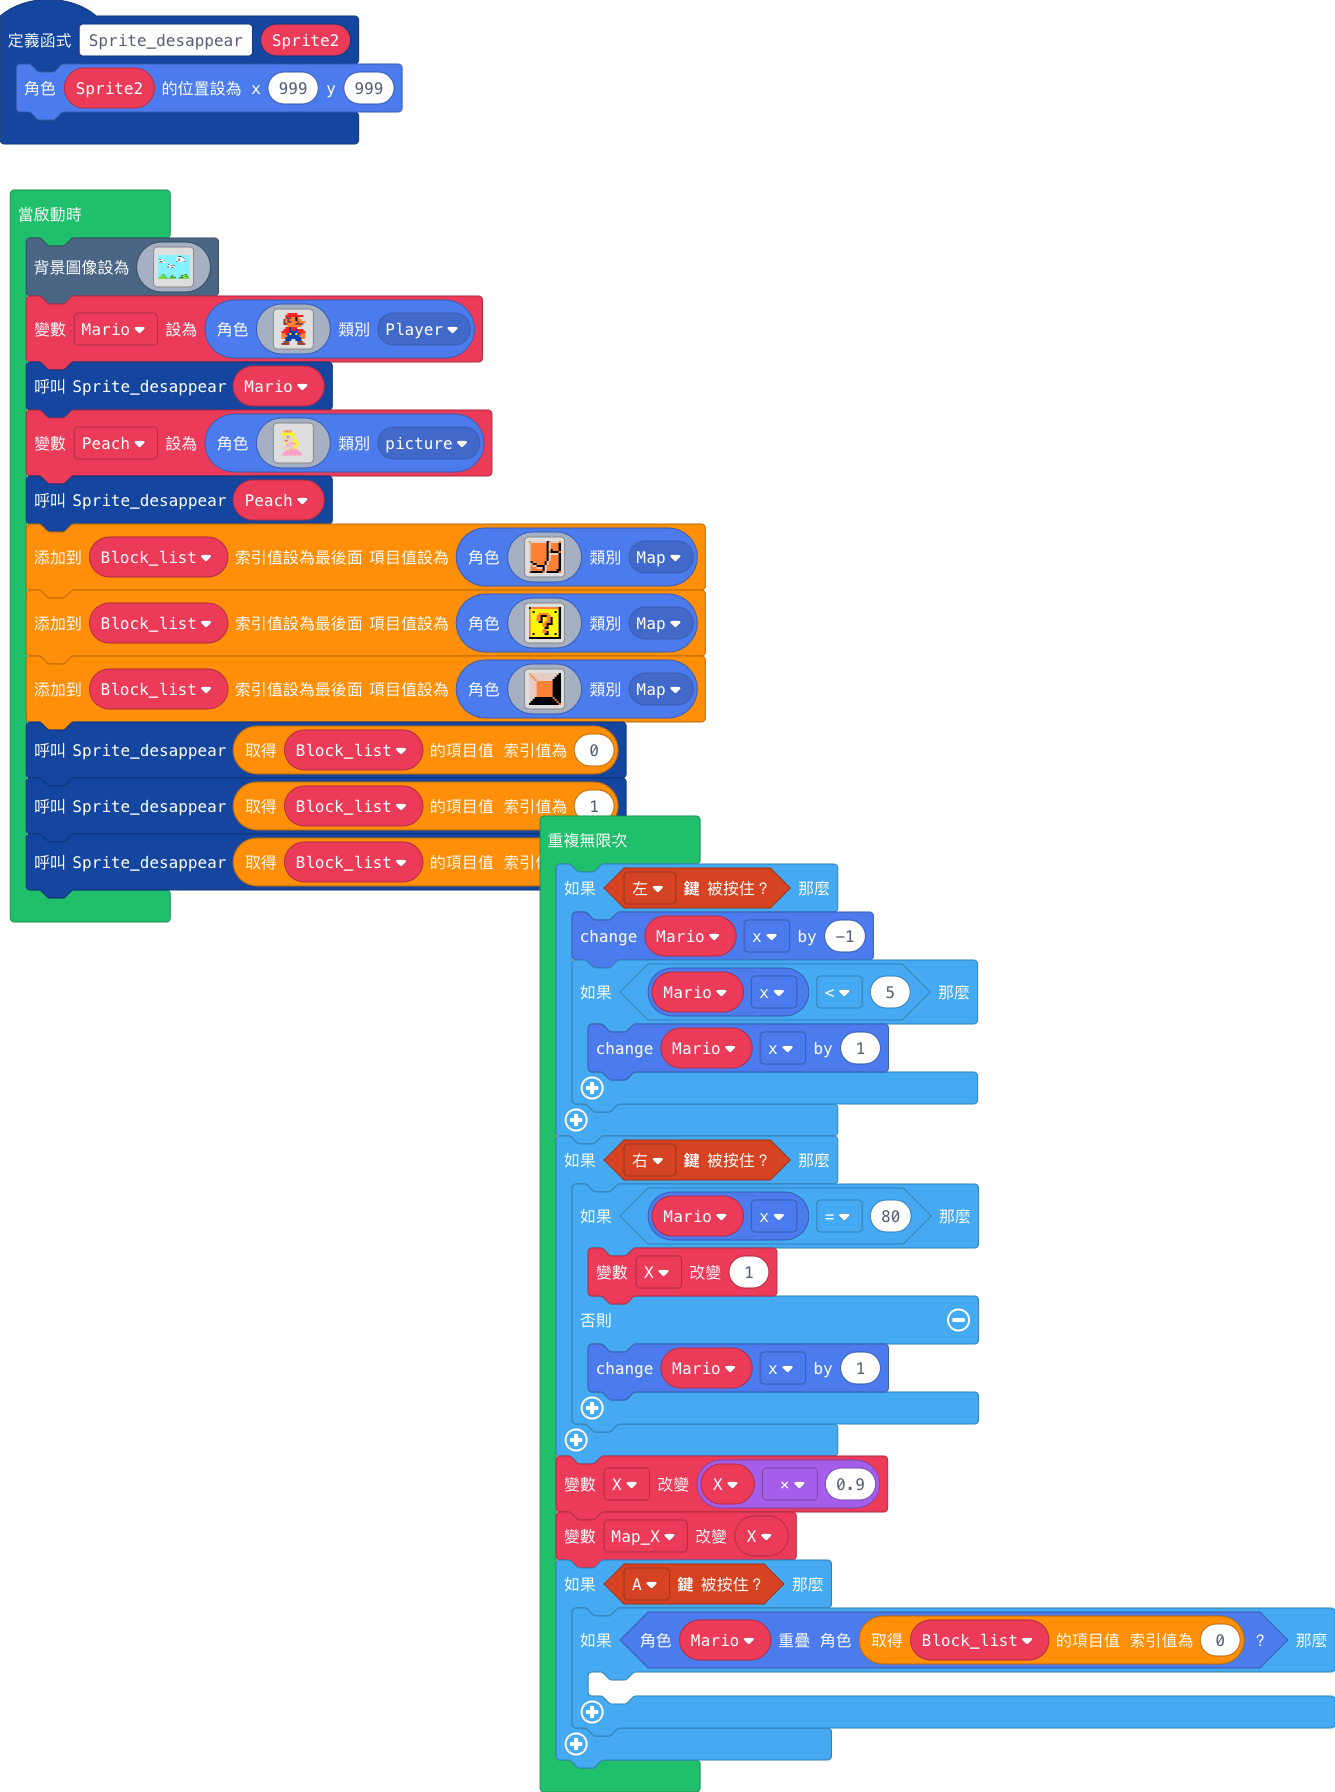
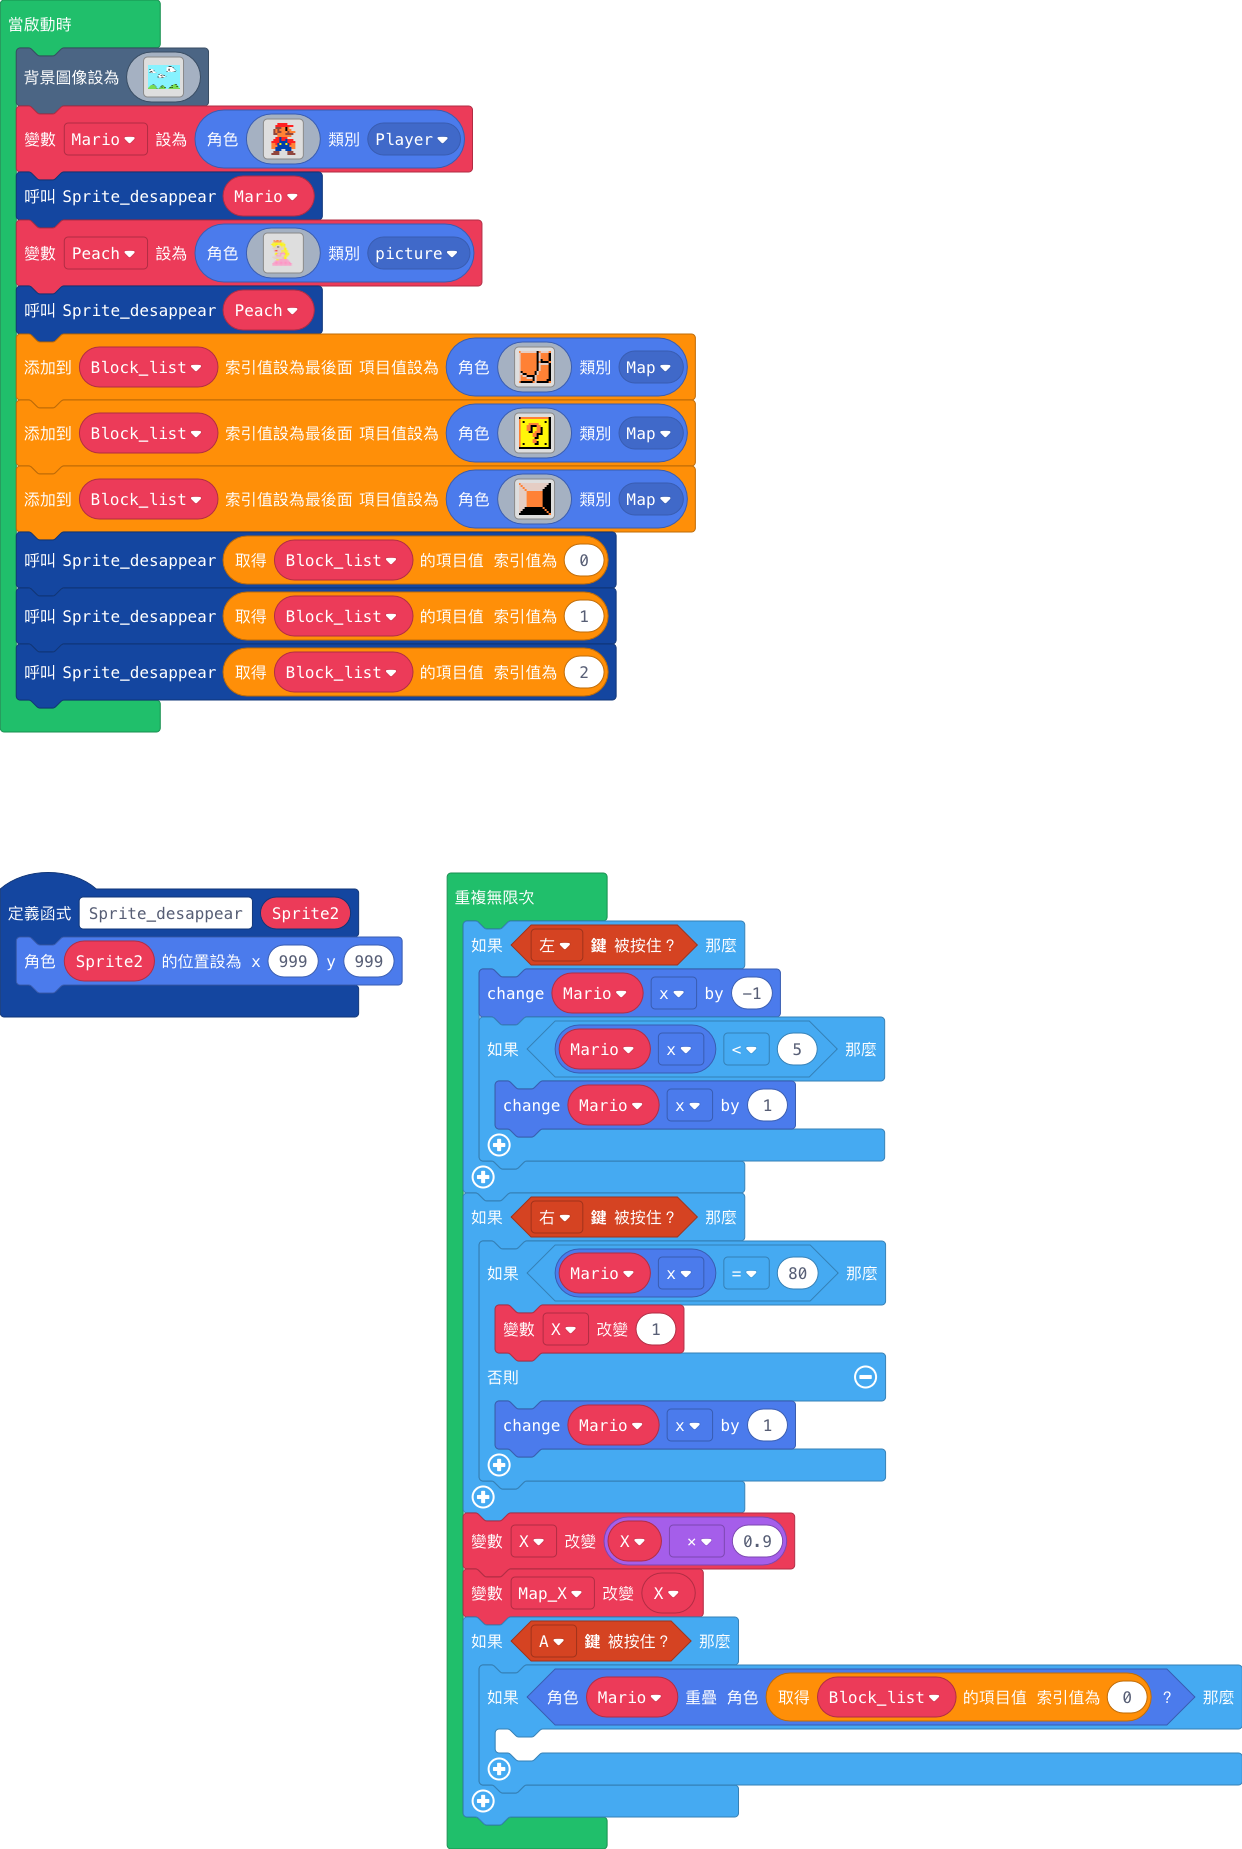
Update main.blocks, main.ts

diff --git a/main.ts b/main.ts
@@ -229,8 +229,6 @@ f f f f f f f f f f f f f f f 4
 Sprite_desappear(Block_list[0])
 Sprite_desappear(Block_list[1])
 Sprite_desappear(Block_list[2])
-game.showLongText("Princess Peach got in to trouble!", DialogLayout.Bottom)
-Peach.setPosition(20, 49)
 forever(function () {
     if (controller.left.isPressed()) {
         Mario.x += -1
